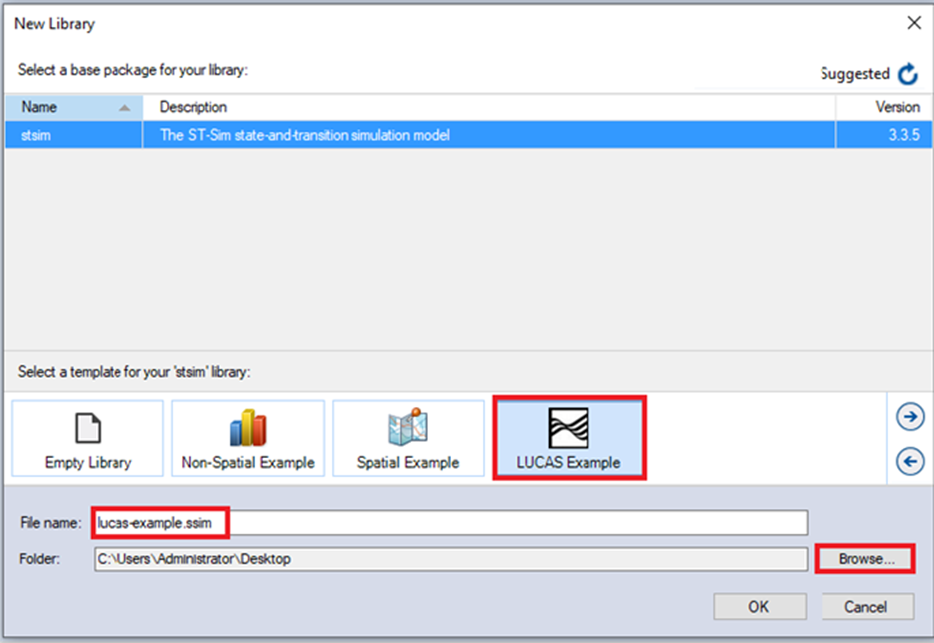
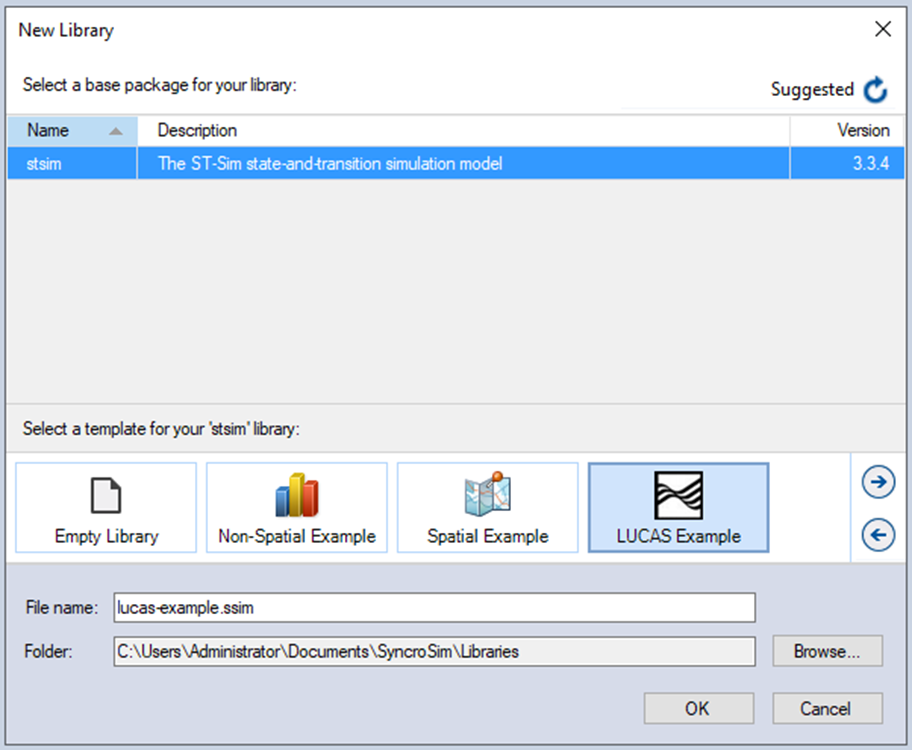
Renamed screencap 1 to be replaced by new version

Changed region(s): [[0.0, 0.0, 1.0, 1.0]]

diff --git a/docs/getting_started.md b/docs/getting_started.md
@@ -27,7 +27,7 @@ Once all required programs are installed, open **SyncroSim** and select **
 ## **Step 2: Create a new stsimcbmcfs3 Library**
 Having installed the **stsimcbmcfs3** Package, you are now ready to create your first SyncroSim Library. A Library is a file (with extension *.ssim*) that contains all of your model inputs and outputs. Note that the format of each Library is specific to the Package for which it was initially created. To create a new Library, choose **New Library...** from the **File** menu.
 <br>
-<img align="middle" style="padding: 3px" width="680" src="assets/images/screencap-1-update.png">
+<img align="middle" style="padding: 3px" width="680" src="assets/images/screencap-1.png">
 <br>
 In this window:
 <br>
